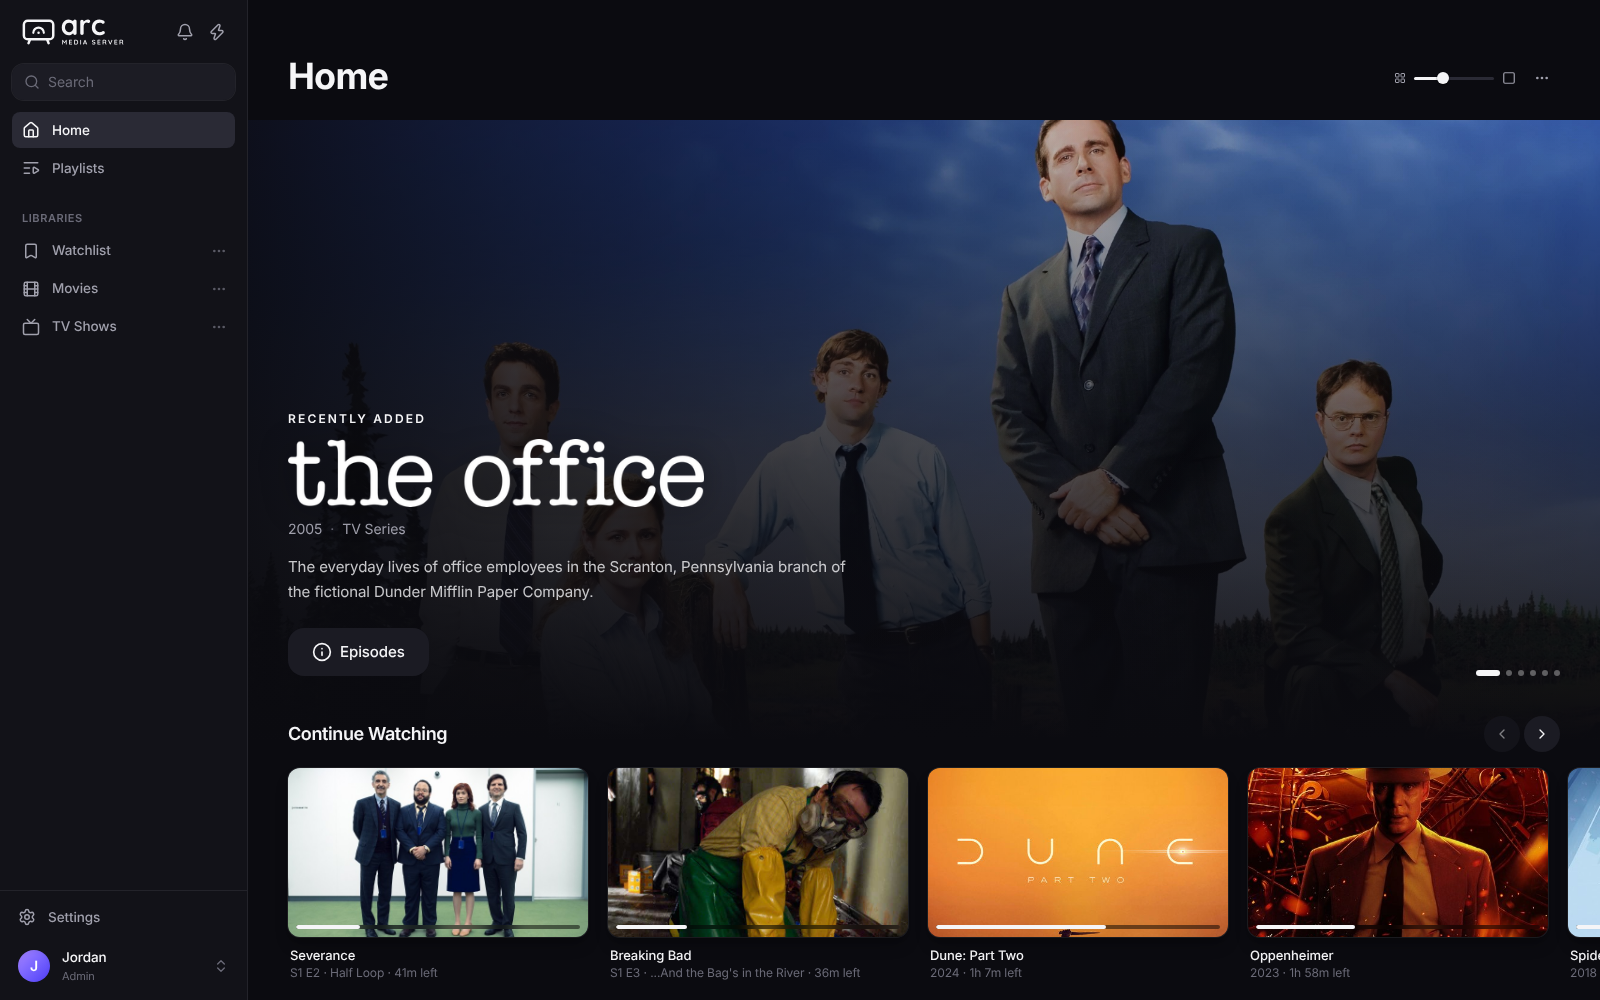
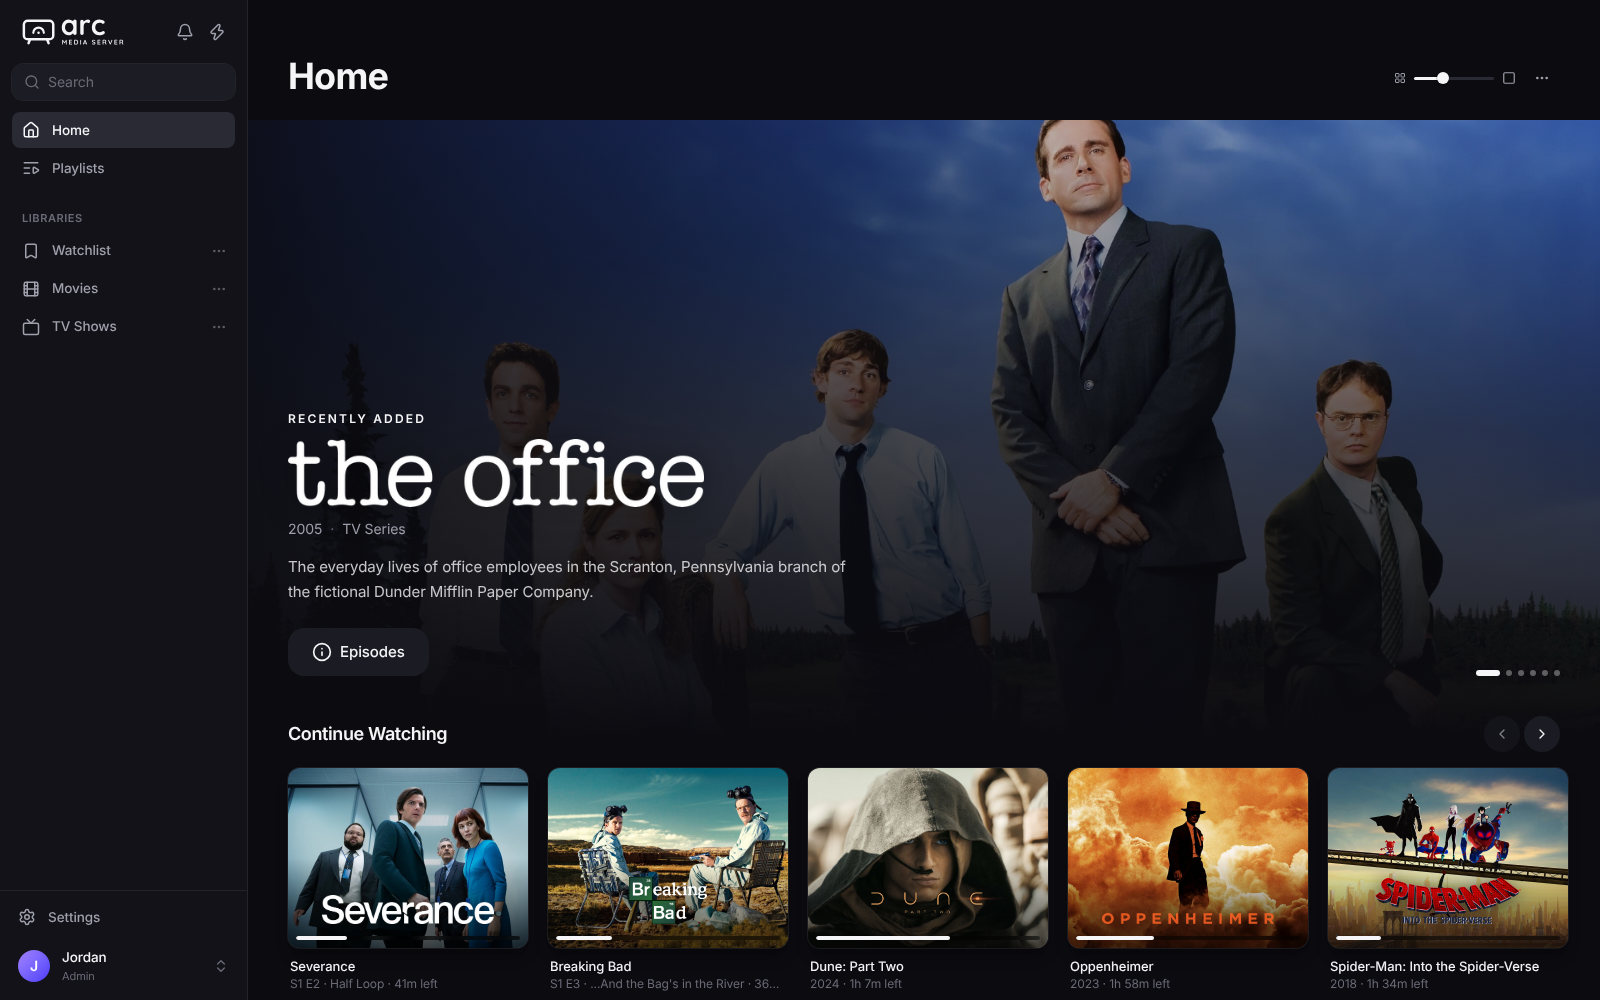
Show Continue Watching as Backdrops in the screenshots (#491)
The shared screenshot library now sets Home's look: Continue Watching as
Backdrops, each title's backdrop with its logo. The script saves it as the
admin's default Home layout, which every app reads from the profile's
preferences. Adds --only to save just some pictures, and retakes
home.png and watch-together.png.

Changed region(s): [[0.1562, 0.744, 1.0, 0.992]]

diff --git a/docs/SCREENSHOTS.md b/docs/SCREENSHOTS.md
@@ -8,8 +8,9 @@ copies of one ten-second generated clip named after each title.
 
 - **What's in it:** `tools/screenshot-library.json`: 24 films, 5 shows with their first season,
   a collection (TMDB adds its own too, such as Dune's), three extra profiles (one a Kids profile), what's part-way through, finished and on
-  the watchlist, and the featured film and show (Dune: Part Two, Breaking Bad) to photograph
-  for a title page. Change the library there, not in an app.
+  the watchlist, Home's look (Continue Watching as **Backdrops**: each title's backdrop with its
+  logo, set as the admin's default Home so every app that follows it shows it), and the featured
+  film and show (Dune: Part Two, Breaking Bad) to photograph for a title page. Change the library there, not in an app.
 - **Credit:** every README with these pictures says "Artwork and details from TMDB. Films and
   shows belong to their owners; Arc doesn't include any media." TMDB's terms ask for that credit.
 - **Store listings** (Google Play, the App Store, LG and Samsung stores, Roku) are a separate job:
@@ -42,7 +43,8 @@ media. Without `--serve` it photographs the web app and stops; with `--serve` it
   password for a throwaway server). The web app on the same machine is signed in without one;
 - the library ids and the featured film and show ids, for opening those pages directly.
 
-`--state <file>` also writes those as JSON (no keys) for a script to read. `--keep` leaves the
+`--state <file>` also writes those as JSON (no keys) for a script to read. `--only home.png`
+(comma-separated) saves just those web pictures, for retaking one after a library change. `--keep` leaves the
 temporary folder afterwards; `--media <folder>` uses a library prepared beforehand.
 
 ### Signing an app in

diff --git a/docs/changes/2026-11-20-screenshots-backdrops.md b/docs/changes/2026-11-20-screenshots-backdrops.md
@@ -1,0 +1,27 @@
+# Screenshots: Continue Watching as Backdrops
+
+What changed:
+- **Home's look in the shared library (owner, 20 November):** `tools/screenshot-library.json`
+  gains `home`, with Continue Watching as **Backdrops** (each title's backdrop with its clear
+  logo; the web's "Backdrops" card style, `arc`). `web/tools/screenshots.mjs` saves it as the
+  admin's default Home layout (`PUT /api/home/default`). Profiles that haven't arranged their own
+  Home get it through their preferences (v1 `/me/prefs`), so every app photographed against
+  `--serve` shows the same look.
+- **`--only`:** `--only home.png,watch-together.png` saves just those web pictures, so a library
+  change that affects one page doesn't rewrite the rest.
+- `docs/screenshots/home.png` and `watch-together.png` retaken; the other five are unchanged.
+- `docs/SCREENSHOTS.md` describes both.
+
+Why: the owner prefers the Backdrops look for the screenshots; Thumbnails (Plex's default) stays
+Arc's default for real profiles.
+
+Checks:
+- `node tools/screenshots.mjs --only home.png,watch-together.png` run against a scratch server;
+  both pictures looked at (Severance, Breaking Bad, Dune: Part Two, Oppenheimer and Spider-Man
+  with their logos).
+- `cd web && npx tsc -b` passes. No Go or web app code changed.
+- No owner server, data, media or keys used.
+
+Limits: apps that don't support a row's card style yet show their own default there.
+
+Logging: none; this is a developer tool.
